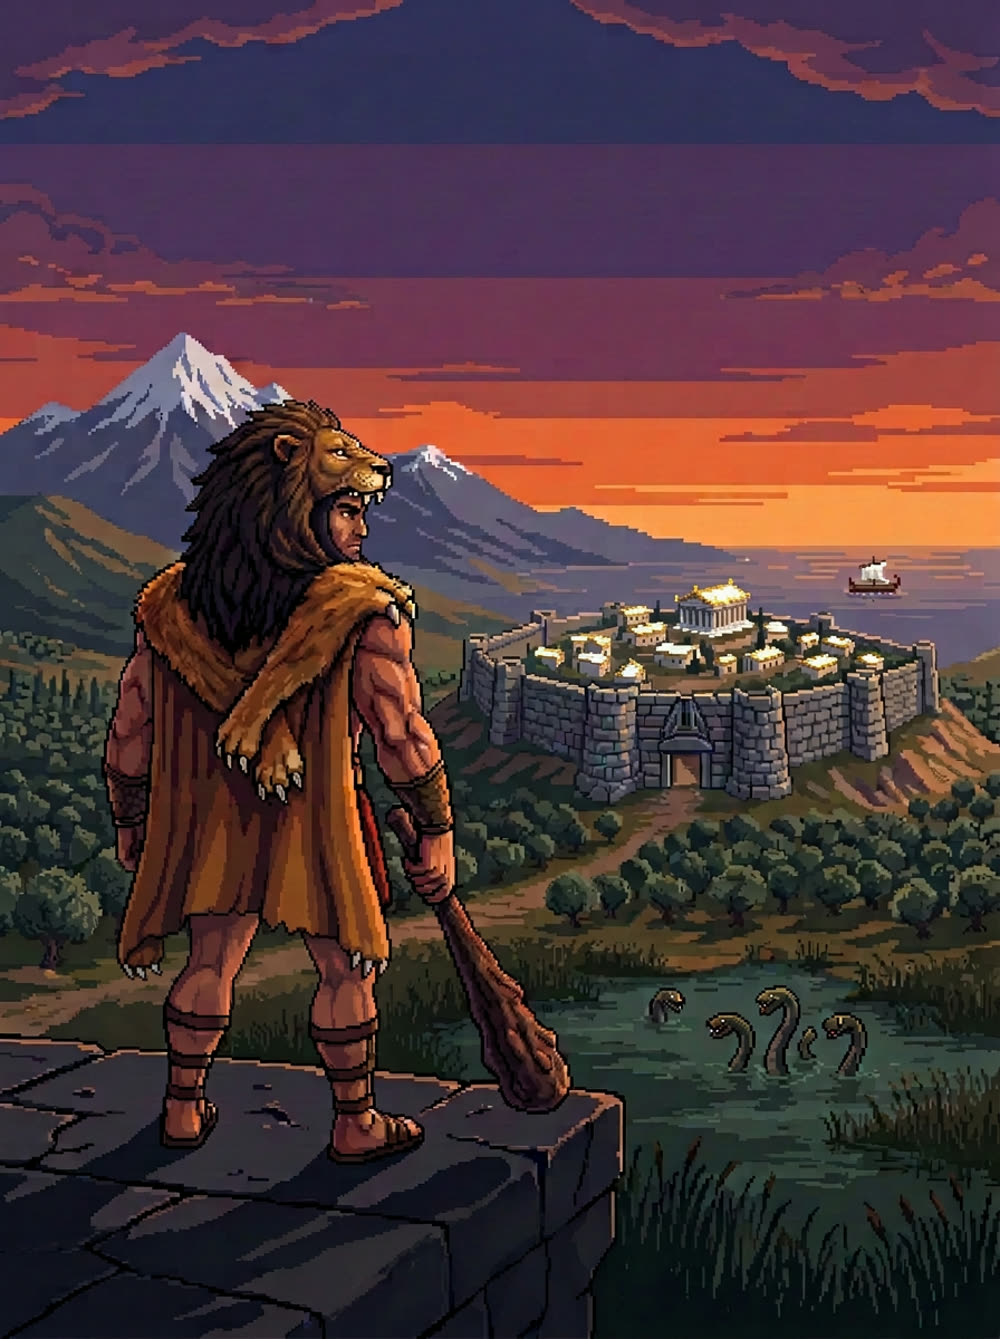
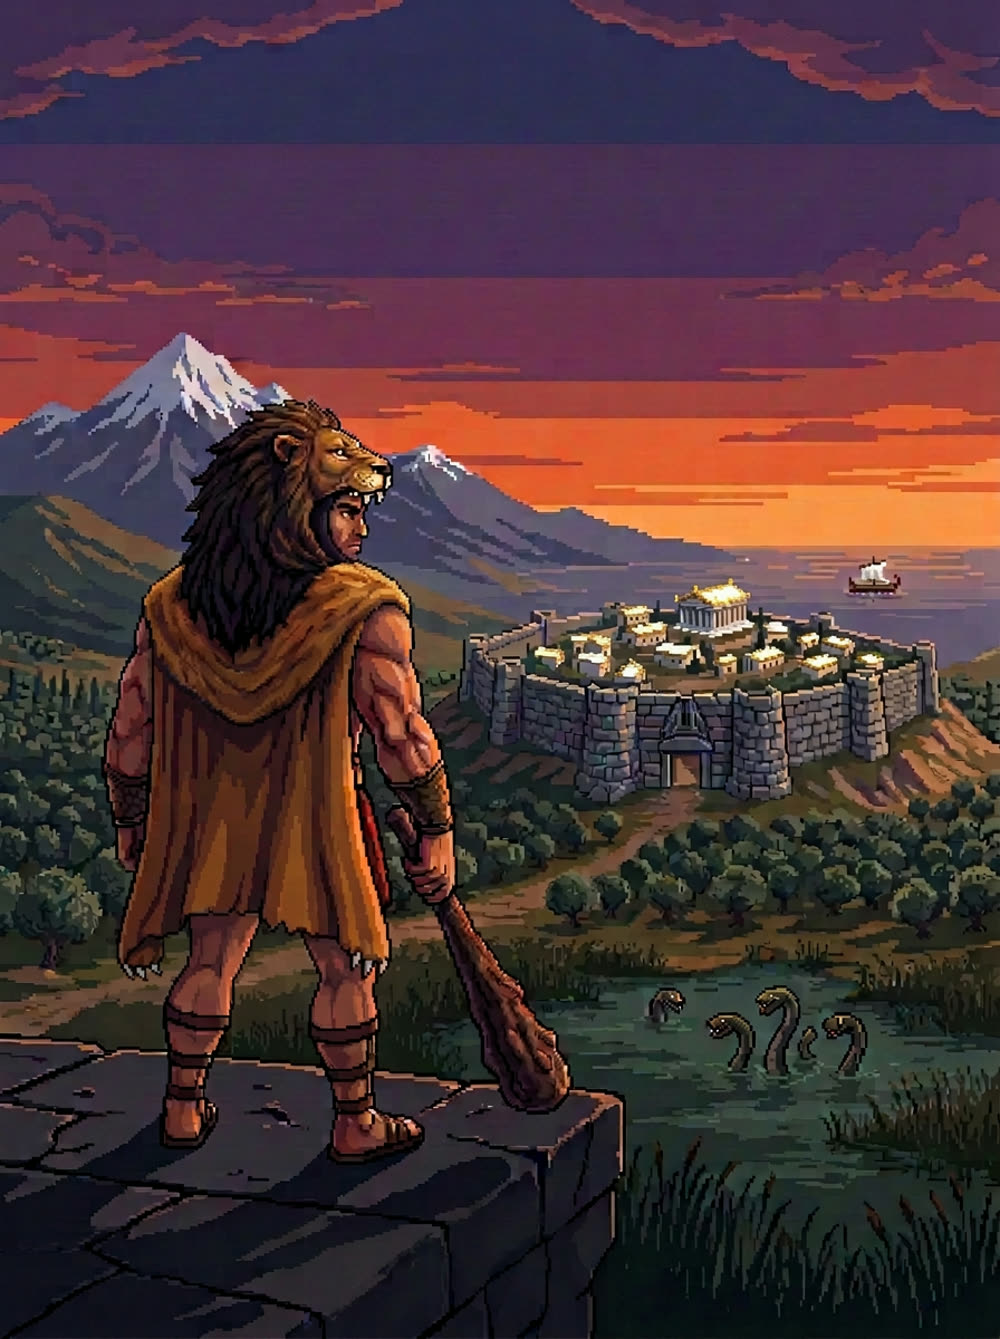
updated the hero art

diff --git a/index.html b/index.html
@@ -128,7 +128,7 @@ a.cell:hover .go{color:var(--accent);transform:translate(3px,-3px)}
 <section class="wrap section" id="game" style="padding-top:clamp(40px,6vw,72px)">
   <h2 class="h2 reveal">In progress</h2>
   <a class="game reveal" href="/heracles">
-    <div class="art"><img loading="lazy" src="img/heracles-key-art.jpg" alt="Heracles in a lion-skin hood looks over a walled citadel at dusk"></div>
+    <div class="art"><img loading="lazy" src="img/heracles-key-art.jpg?v=2" alt="Heracles in a lion-skin hood looks over a walled citadel at dusk"></div>
     <div class="body">
       <div>
         <div class="cat">Game, in development</div>

diff --git a/heracles.html b/heracles.html
@@ -75,7 +75,7 @@
     <p class="g-status enter" style="--i:4"><i class="ph ph-device-mobile-slash"></i>Being prepared as a browser game on itch.io. Not on Android yet.</p>
   </div>
   <figure class="g-art enter" style="--i:2">
-    <img src="img/heracles-key-art.jpg" alt="Heracles in a lion-skin hood and cloak, club in hand, looks over a walled citadel at dusk" fetchpriority="high">
+    <img src="img/heracles-key-art.jpg?v=2" alt="Heracles in a lion-skin hood and cloak, club in hand, looks over a walled citadel at dusk" fetchpriority="high">
   </figure>
 </section>
 
